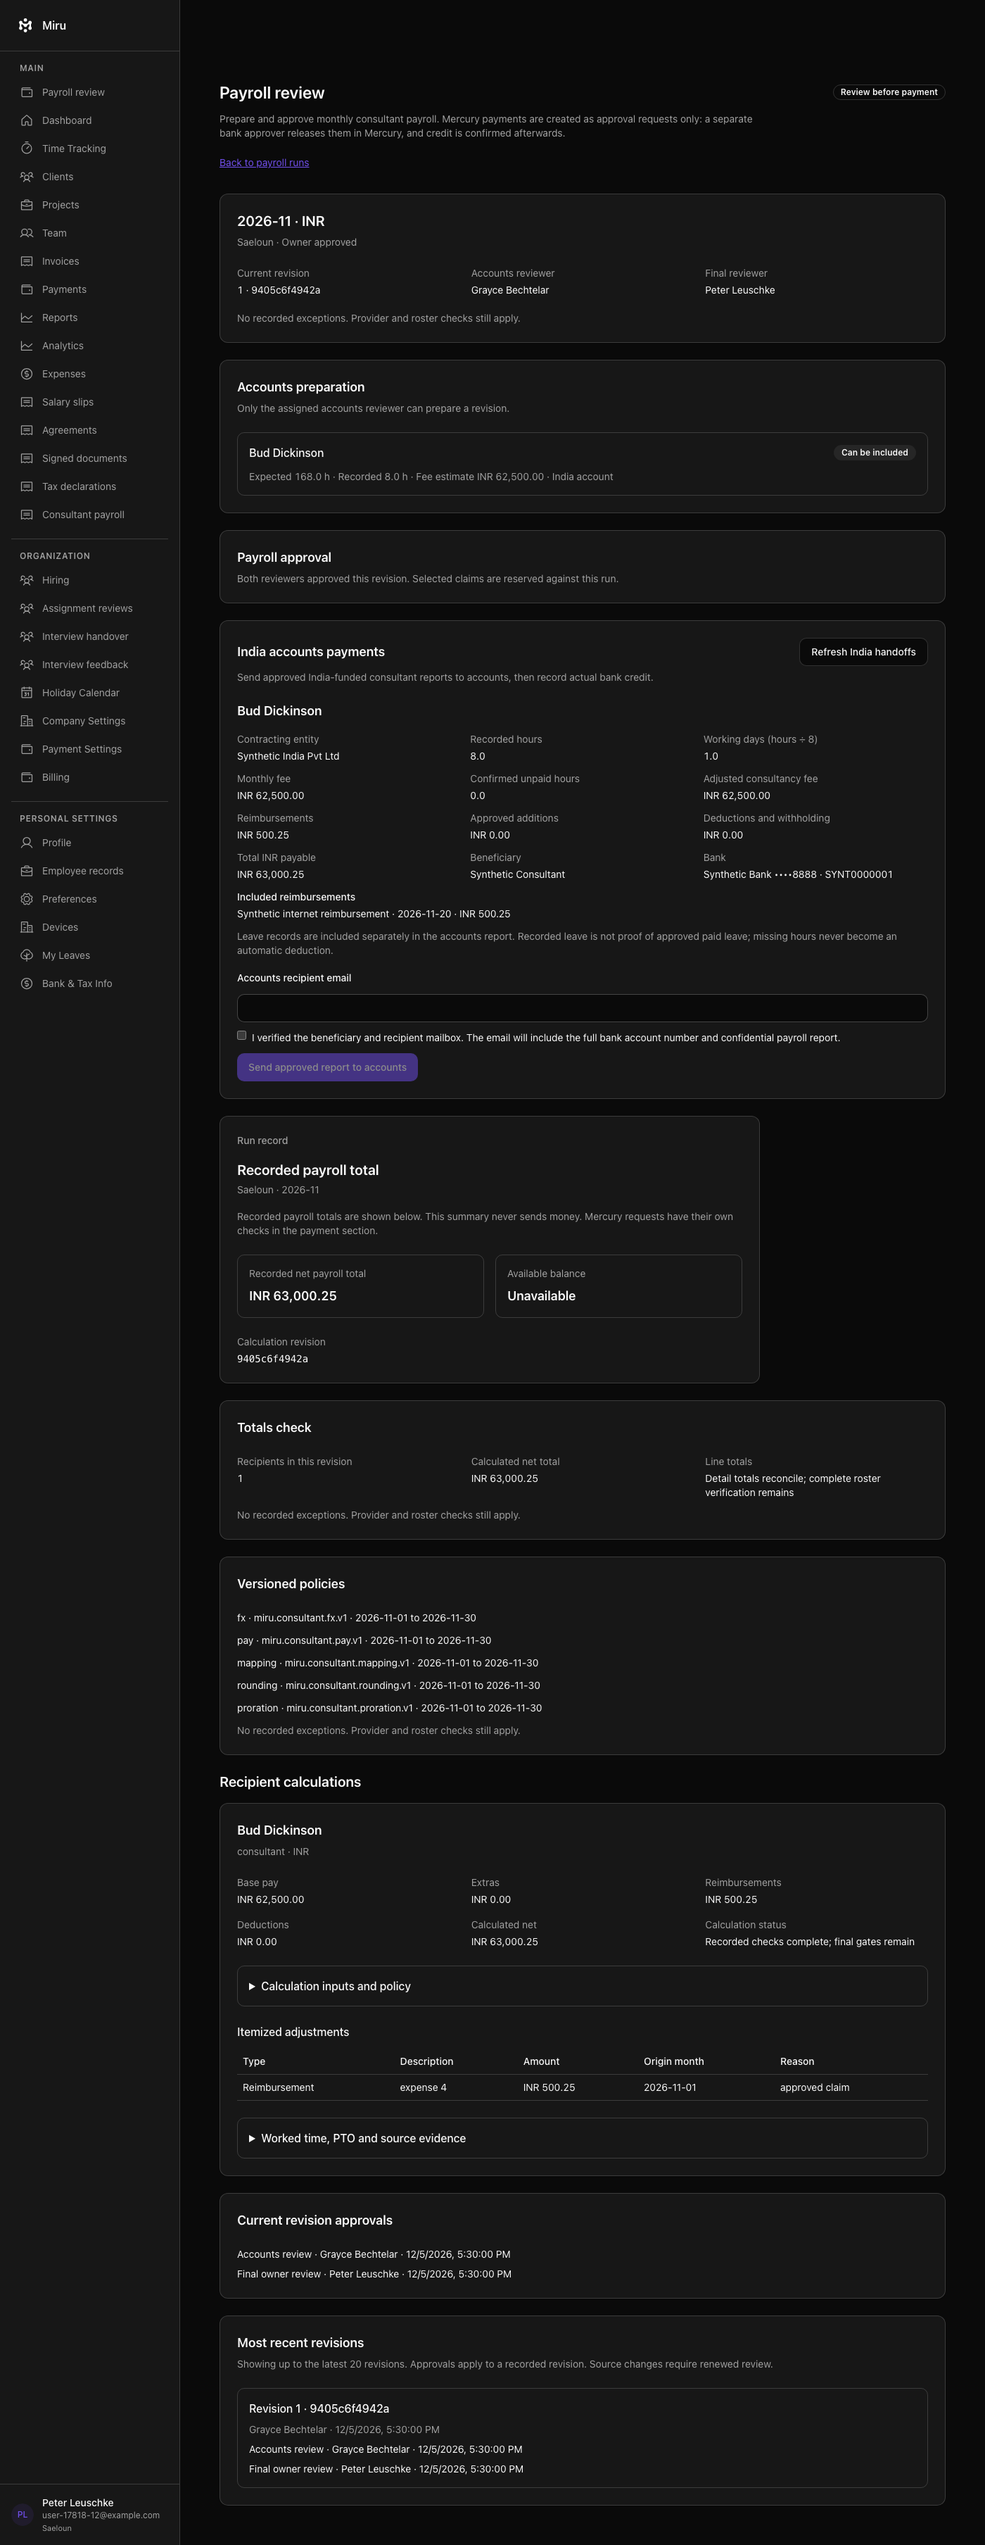
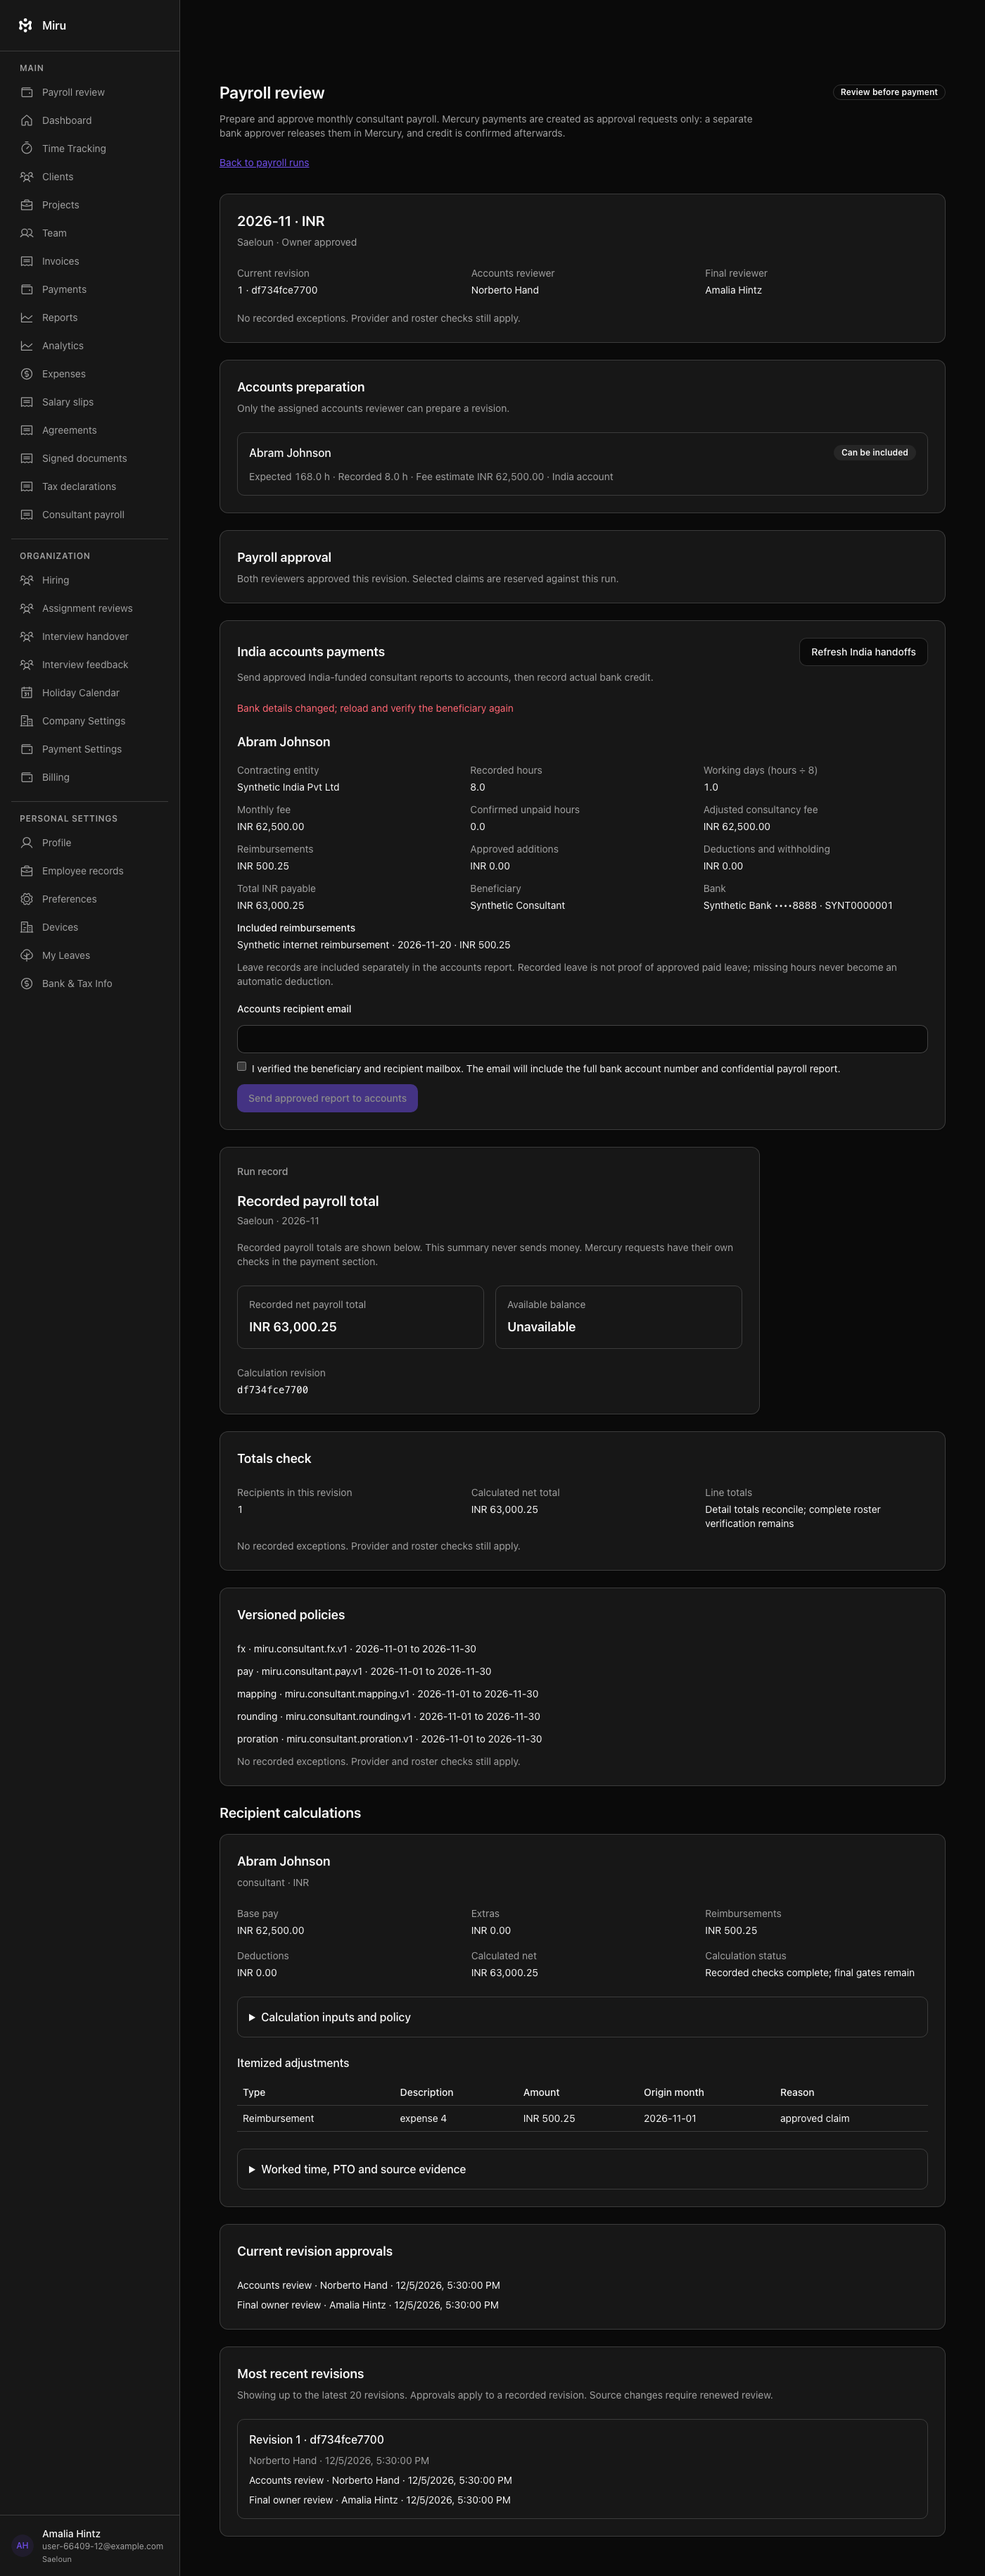
fix: retain payroll conflict guidance and isolate rollback specs

diff --git a/app/javascript/src/components/Payroll/IndiaHandoffs.tsx b/app/javascript/src/components/Payroll/IndiaHandoffs.tsx
@@ -491,7 +491,8 @@ const IndiaHandoffsPanel = ({
   runId: string;
 }) => {
   const [data, setData] = useState<IndiaHandoffs | null>(null);
-  const [error, setError] = useState("");
+  const [loadError, setLoadError] = useState("");
+  const [actionError, setActionError] = useState("");
   const [notice, setNotice] = useState("");
   const [busy, setBusy] = useState(false);
   const [refresh, setRefresh] = useState(0);
@@ -508,7 +509,7 @@ const IndiaHandoffsPanel = ({
           generation.current === currentGeneration
         ) {
           setData(response.data.india_handoffs);
-          setError("");
+          setLoadError("");
         }
       })
       .catch(reason => {
@@ -516,7 +517,7 @@ const IndiaHandoffsPanel = ({
           !controller.signal.aborted &&
           generation.current === currentGeneration
         ) {
-          setError(errorMessage(reason, issueLabel));
+          setLoadError(errorMessage(reason, issueLabel));
         }
       });
 
@@ -542,7 +543,7 @@ const IndiaHandoffsPanel = ({
   const perform = async (action: () => Promise<any>) => {
     generation.current += 1;
     setBusy(true);
-    setError("");
+    setActionError("");
     setNotice("");
     try {
       const response = await action();
@@ -551,7 +552,7 @@ const IndiaHandoffsPanel = ({
 
       return true;
     } catch (reason) {
-      setError(errorMessage(reason, issueLabel));
+      setActionError(errorMessage(reason, issueLabel));
       const status = (reason as any)?.response?.status;
       if (status === 403) setData(null);
 
@@ -582,9 +583,14 @@ const IndiaHandoffsPanel = ({
         </p>
       </CardHeader>
       <CardContent className="space-y-6" aria-busy={busy}>
-        {error && (
+        {loadError && (
           <p role="alert" className="text-sm text-destructive">
-            {error}
+            {loadError}
+          </p>
+        )}
+        {actionError && (
+          <p role="alert" className="text-sm text-destructive">
+            {actionError}
           </p>
         )}
         {notice && (
@@ -592,7 +598,7 @@ const IndiaHandoffsPanel = ({
             {notice}
           </p>
         )}
-        {!data && !error && (
+        {!data && !loadError && !actionError && (
           <p className="text-sm">Loading India accounts handoffs…</p>
         )}
         {data?.consultants.length === 0 && (

diff --git a/spec/system/responsive/india_payroll_handoff_spec.rb b/spec/system/responsive/india_payroll_handoff_spec.rb
@@ -160,11 +160,13 @@ RSpec.describe "India payroll accounts handoff", type: :system, js: true do
         expect(page).to have_unchecked_field("I verified the beneficiary and recipient mailbox.")
         expect(page).to have_field("Accounts recipient email", with: "")
         expect(page).to have_button("Send approved report to accounts", disabled: true)
+        expect(page).to have_css("[role='alert']", text: "Bank details changed; reload and verify the beneficiary again")
         screenshot("owner-bank-reconfirmation-desktop")
         fill_in "Accounts recipient email", with: mailbox
         check "I verified the beneficiary and recipient mailbox."
         click_button "Send approved report to accounts"
         expect(page).to have_text("Email queued")
+        expect(page).to have_no_css("[role='alert']")
       end
       expect(PayrollIndiaHandoff.sole.report.dig("bank_details", "bank_account_number")).to eq("999999998888")
     end

diff --git a/spec/models/payroll_mercury_migration_rollback_spec.rb b/spec/models/payroll_mercury_migration_rollback_spec.rb
@@ -11,13 +11,15 @@ RSpec.describe "Mercury payroll migration rollback" do
 
   before(:context) do
     @original_version = ActiveRecord::Base.connection_pool.migration_context.current_version
+    DatabaseCleaner.clean_with :truncation, except: %w[ar_internal_metadata]
     ActiveRecord::Base.connection_pool.migration_context.migrate(VERSION)
     # Current payroll guards require India records even while Mercury DDL is tested historically.
     CreatePayrollIndiaHandoffs.new.up
+    @created_india_tables = true
   end
 
   after(:context) do
-    CreatePayrollIndiaHandoffs.new.down if ActiveRecord::Base.connection.table_exists?(:payroll_india_handoffs)
+    CreatePayrollIndiaHandoffs.new.down if @created_india_tables && ActiveRecord::Base.connection.table_exists?(:payroll_india_handoffs)
     ActiveRecord::Base.connection_pool.migration_context.migrate(@original_version)
   end
 

diff --git a/docs/qa/india-payroll-2458/verification-20261108.md b/docs/qa/india-payroll-2458/verification-20261108.md
@@ -64,6 +64,10 @@ CodeRabbit's next review identified a valid SQL safeguard: mutable handoff total
 
 The same review suggested shared locks for concurrent polling. Native engineering checked the full call graph and retained the existing exclusive protocol: both `Workflow#status` and preview readiness take nested exclusive run locks. Changing only the outer lock would introduce a lock-upgrade deadlock risk; a coordinated change would alter the status contract used by other payroll workflows. No contention or incorrect result was demonstrated, so this unmeasured optimization does not justify expanding this financial change. The proven history query issue is already fixed by batch loading. The generic docstring heuristic still identifies no missing public contract.
 
+The subsequent review caught two real lifecycle cases. Load errors and action errors now have separate state, so a successful automatic refresh retains the explanation for a rejected bank/revision action. The bank-change browser case first failed at the new assertion after the refreshed bank and cleared confirmation appeared; all five India browser examples then pass with strict console checks, including clearing the alert on the next successful action. The bank-reconfirmation screenshot is refreshed for this visible correction; the other six retain the earlier verified checkpoint. Both required Vite builds and ESLint pass, and normalized TypeScript diagnostics still match the 329-error baseline with zero added/removed entries. Local Qwen also checked the bounded state-flow description; that opinion is not runtime proof.
+
+Historical migration setup now cleans test residue before migrating and tracks whether it created the temporary India tables before tearing them down. A real committed India handoff left before the historical group caused all nine examples to fail before this fix; the ordered populated fixture plus historical cases now pass **10/10**, and the normal historical file passes **9/9**. The original schema version is restored. Independent final backend verification remains **64 examples, zero failures**. Production migration guards are unchanged. Exact-head hosted CI remains required.
+
 ## Screenshots
 
 - [Owner report confirmation](screenshots/owner-ready-desktop.png)
